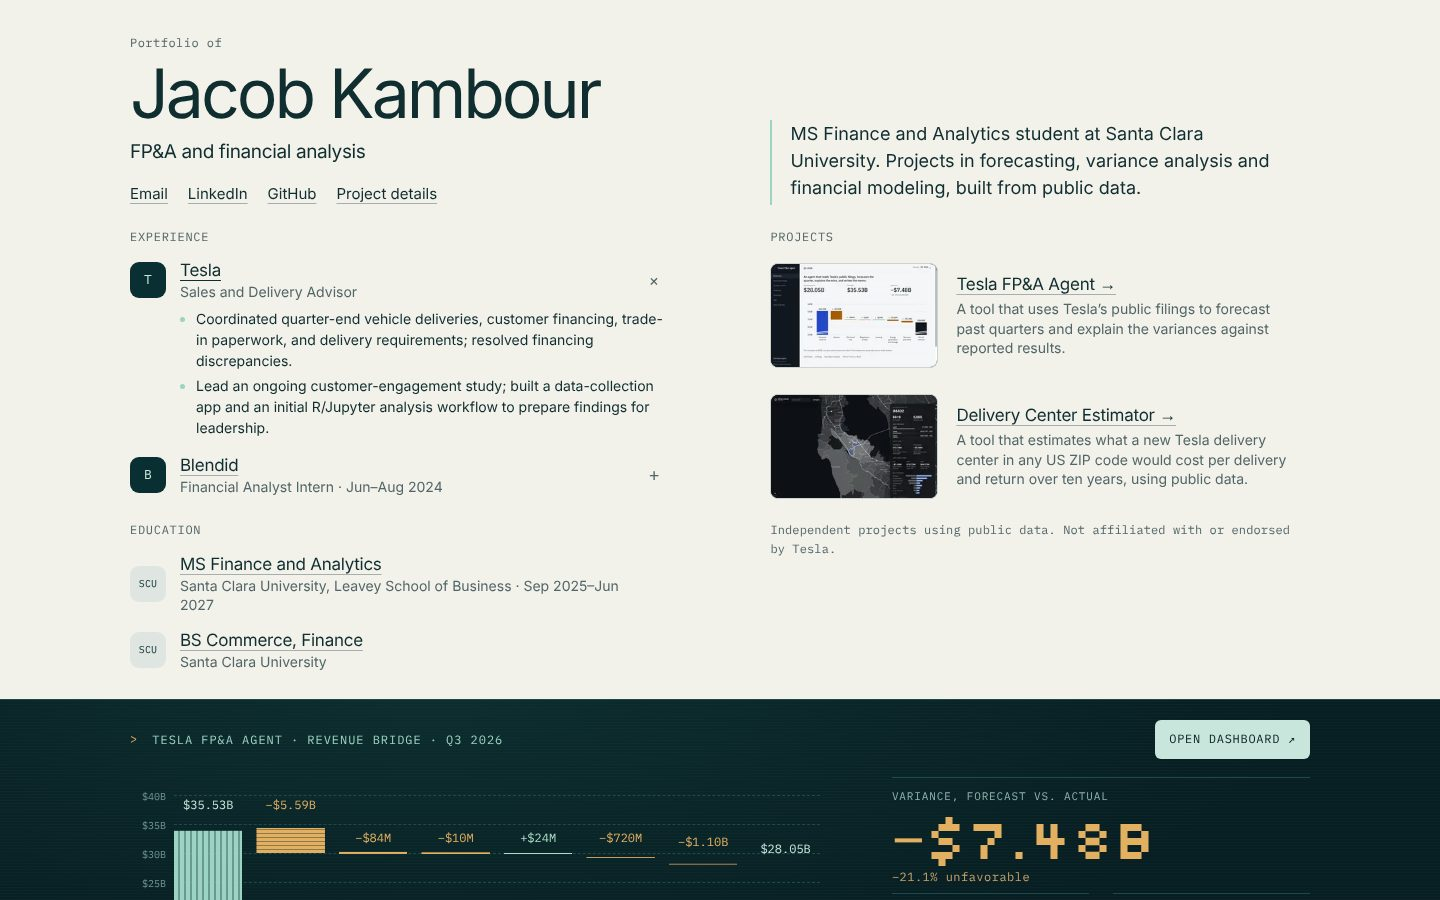
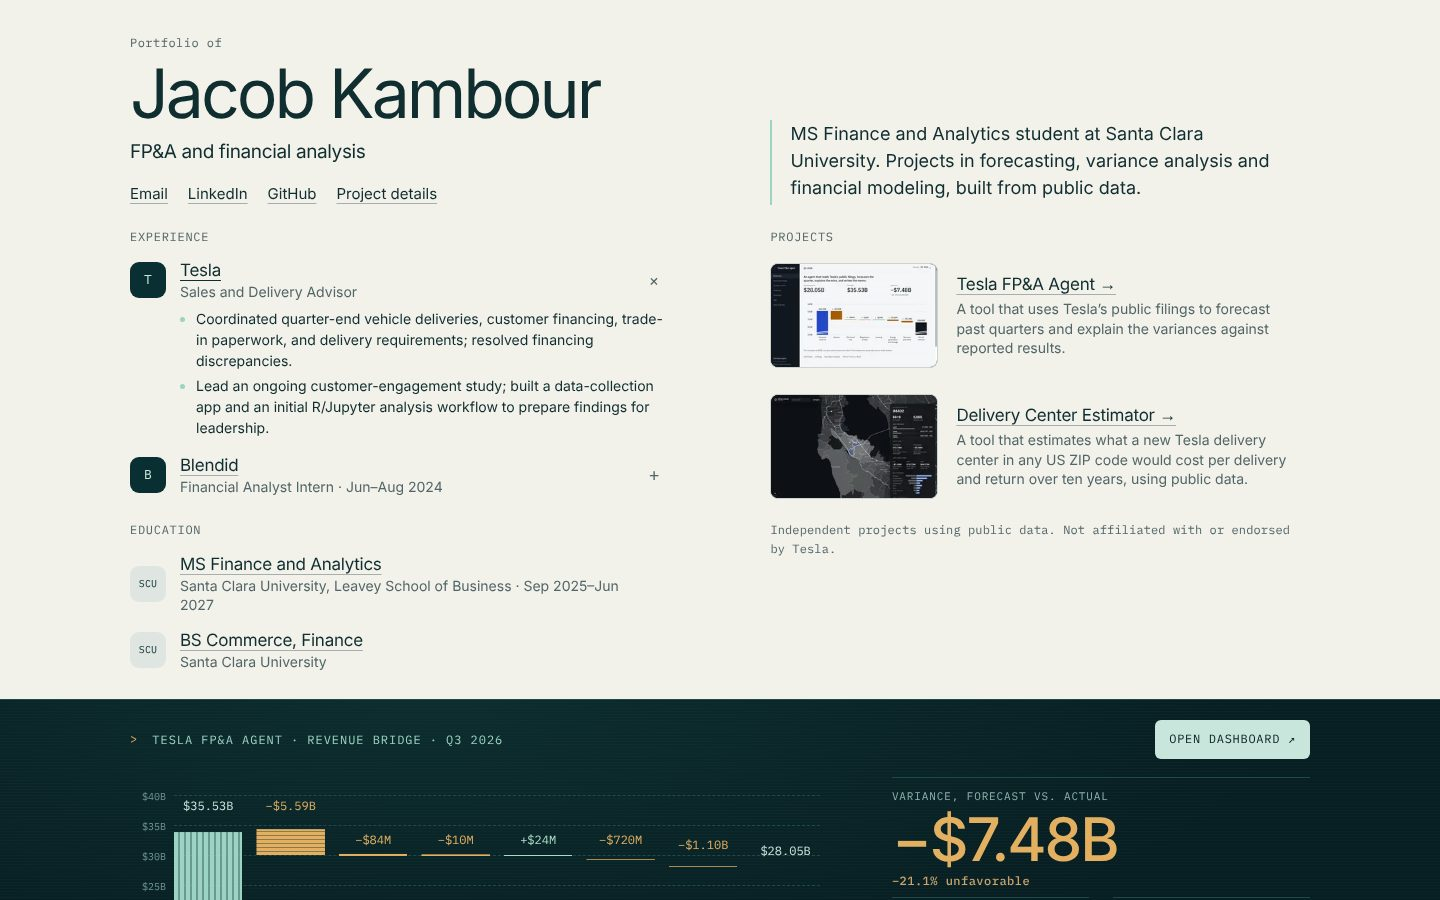
Use Inter for the /v2/ variance figure instead of a pixel font
The pixel font was hard to read. The figure now matches the forecast and
actual values beside it, and the font config and layout head slot that
only existed to load it are reverted to main.

Claude-Session: https://claude.ai/code/session_01MPaYzWctghax4xefJfZc6c

diff --git a/HANDOFF.md b/HANDOFF.md
@@ -73,6 +73,6 @@ Branch claude/exciting-fermi-9e7opt adds a separate draft homepage at /v2/ (src/
 - Inspiration (reviewed from tweets Jacob shared): parivansjalia.com for the one-screen résumé layout with click-to-expand roles, and Motionin's "Cipher"/"Benchmark" sections for the terminal-style finance visual. Nothing was copied: no third-party code, art, prompts or text.
 - Layout: name, focus line, Email/LinkedIn/GitHub/Project details links; Experience rows (native <details>, one open at a time, all bullets from experience.yaml); Education rows; both projects with thumbnails and taglines from work.yaml. Recruiter content ends about 580px down at 1280–1536px laptop sizes.
 - Terminal band: the real Q3 2026 revenue bridge from the live Tesla FP&A Agent dashboard capture (forecast $35.53B → actual $28.05B, variance −$7.48B / −21.1%, 2,495 facts, 63 filings). Drawn with CSS, labelled as a historical backtest with the axis starting at $20B; screen-reader label and description included. The tape uses only figures already on the site (Delivery Center Estimator figures are labelled model estimates).
-- Shared-file changes: astro.config.mjs adds the Silkscreen pixel font (only /v2/ loads it); BaseLayout.astro gains an optional `head` slot. Classes are scoped; note global.css `.project + .project` exists, so /v2/ uses `.proj-card`.
+- Shared files: none changed. The variance figure uses Inter 500 (already loaded site-wide). Classes are scoped; note global.css `.project + .project` exists, so /v2/ uses `.proj-card`.
 - Motion: stepped bar rise, blinking cursor and scrolling tape; all disabled under prefers-reduced-motion (tape becomes static wrapped text).
 - Verification: astro check 0 errors/0 warnings; build 5 routes. Production preview at 1440×900, 1280×800, 1024×768, 390×844 and reduced motion: no horizontal overflow, images load, no console errors, details toggle works. Screenshots: docs/previews/v2-onescreen-*.jpg. To promote it, move the markup into index.astro (or swap routes) after Jacob approves.
